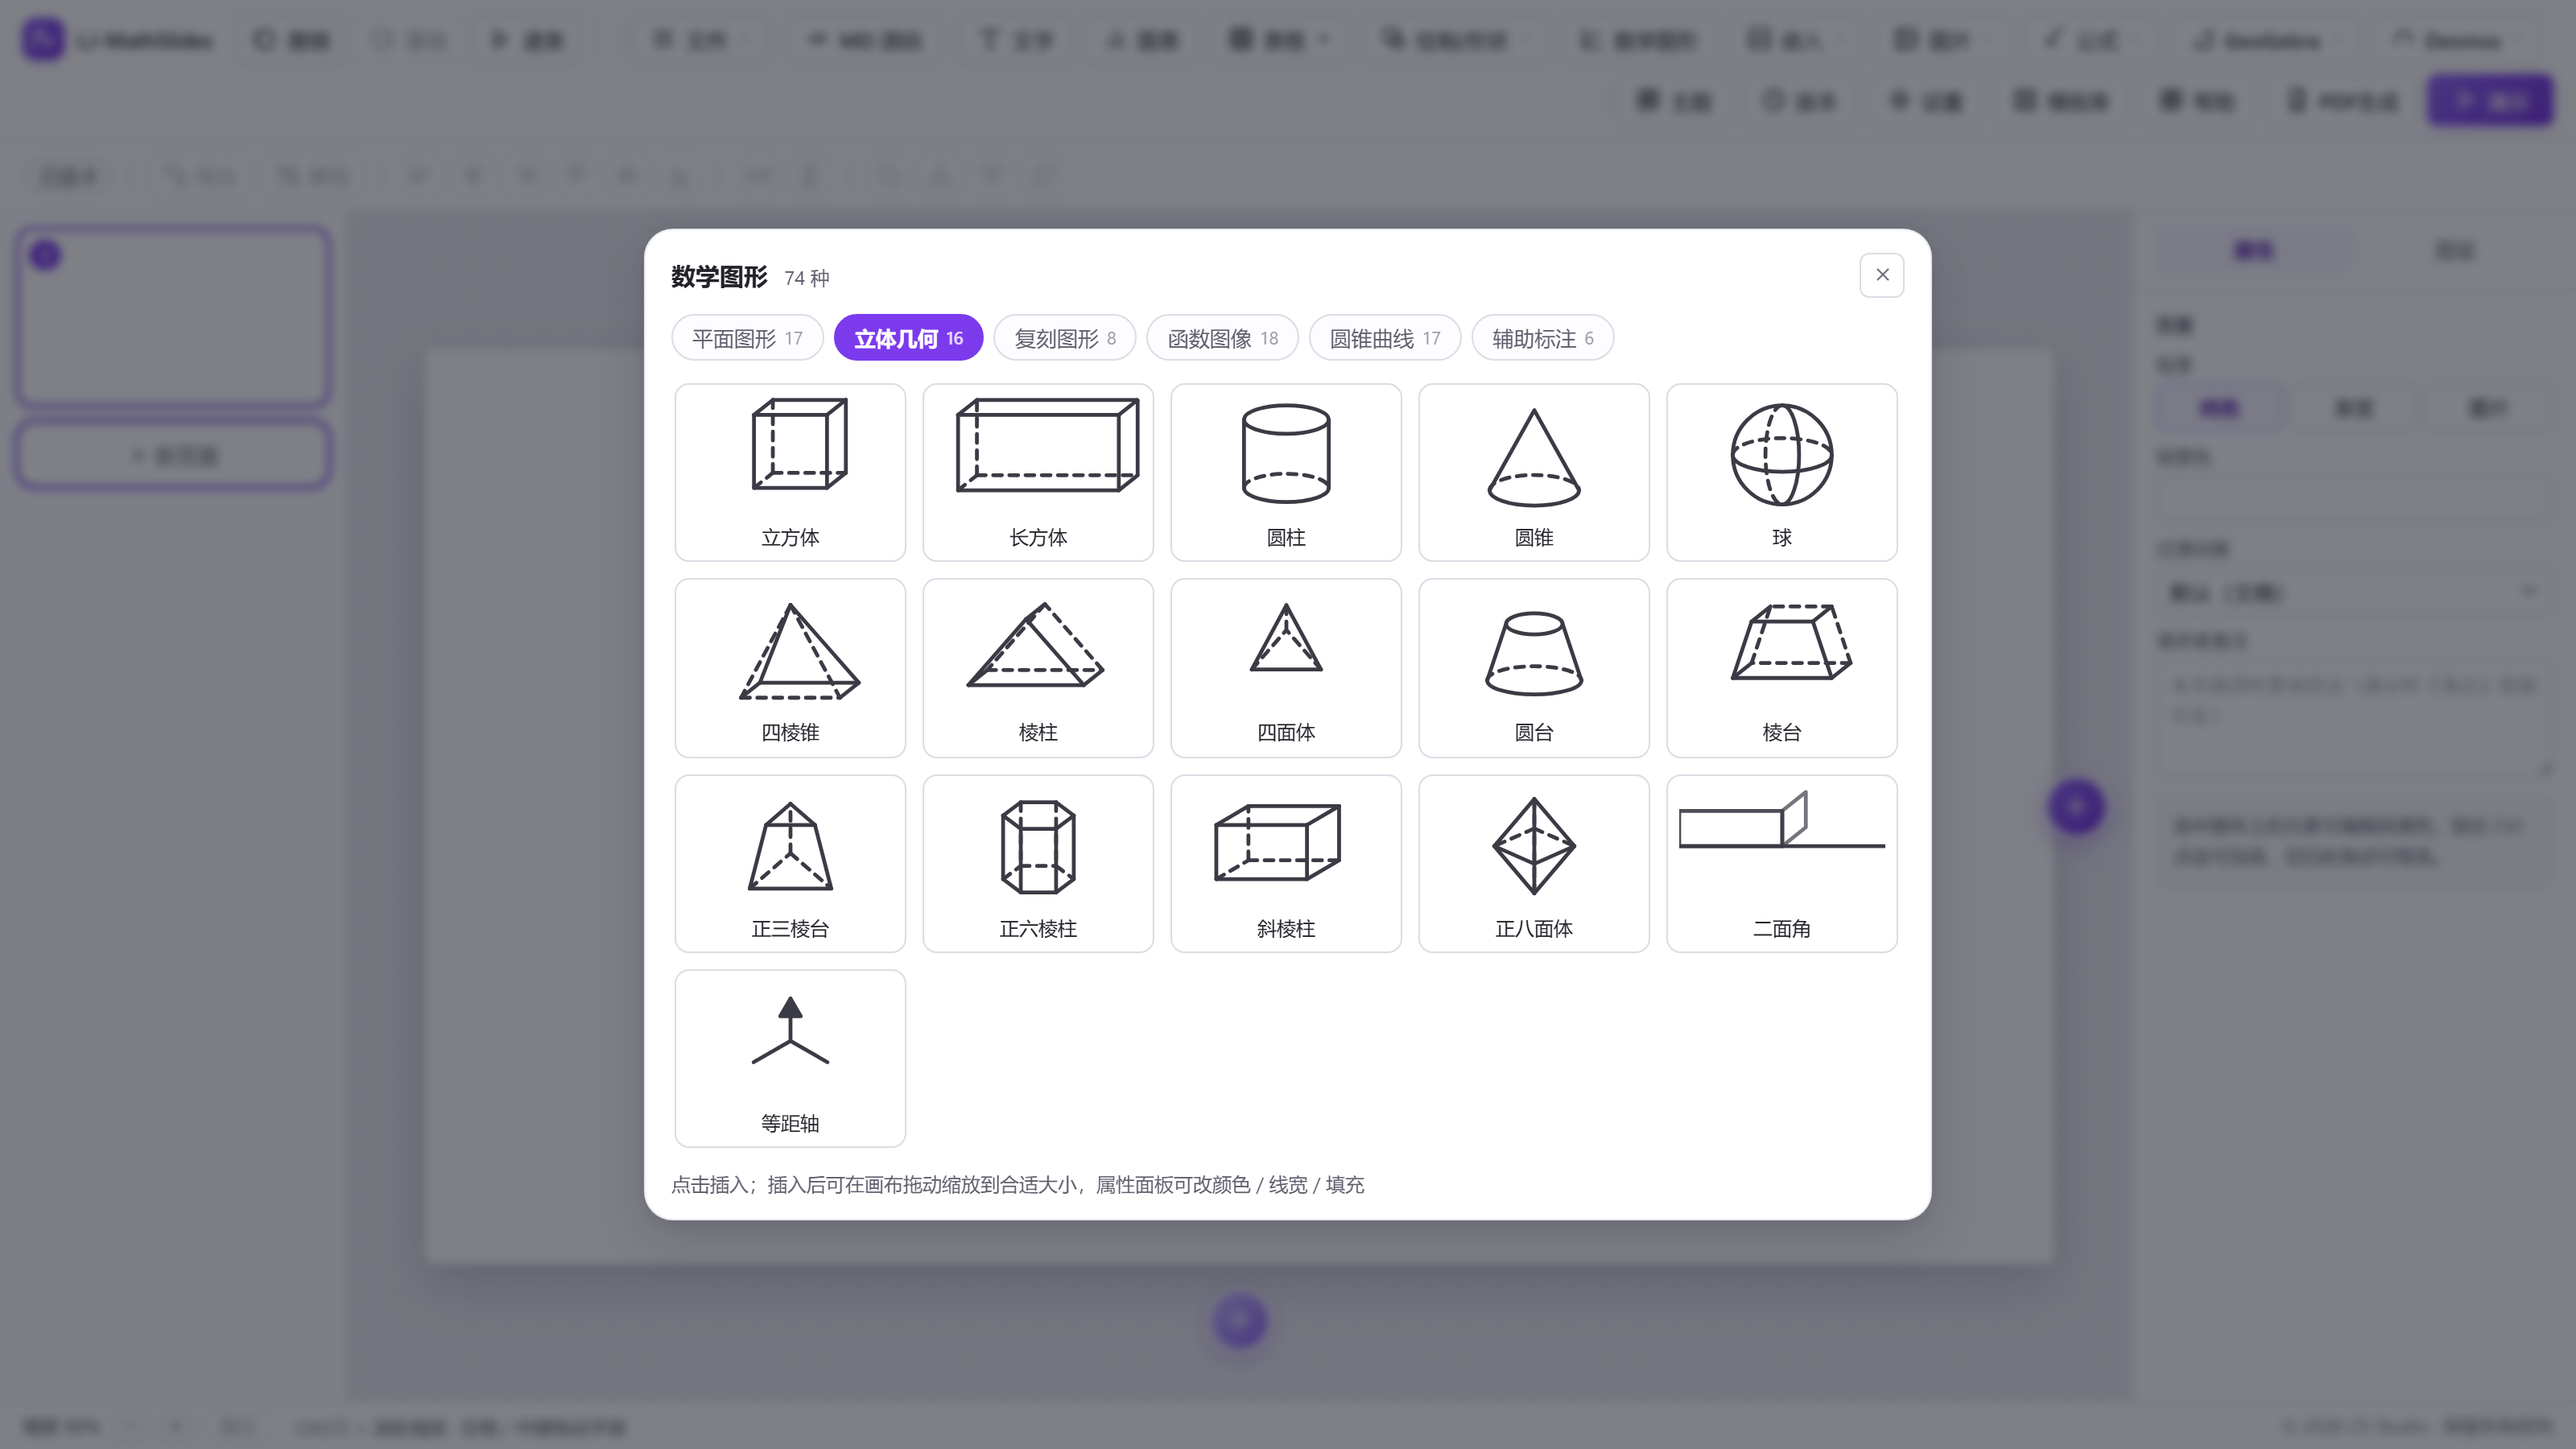
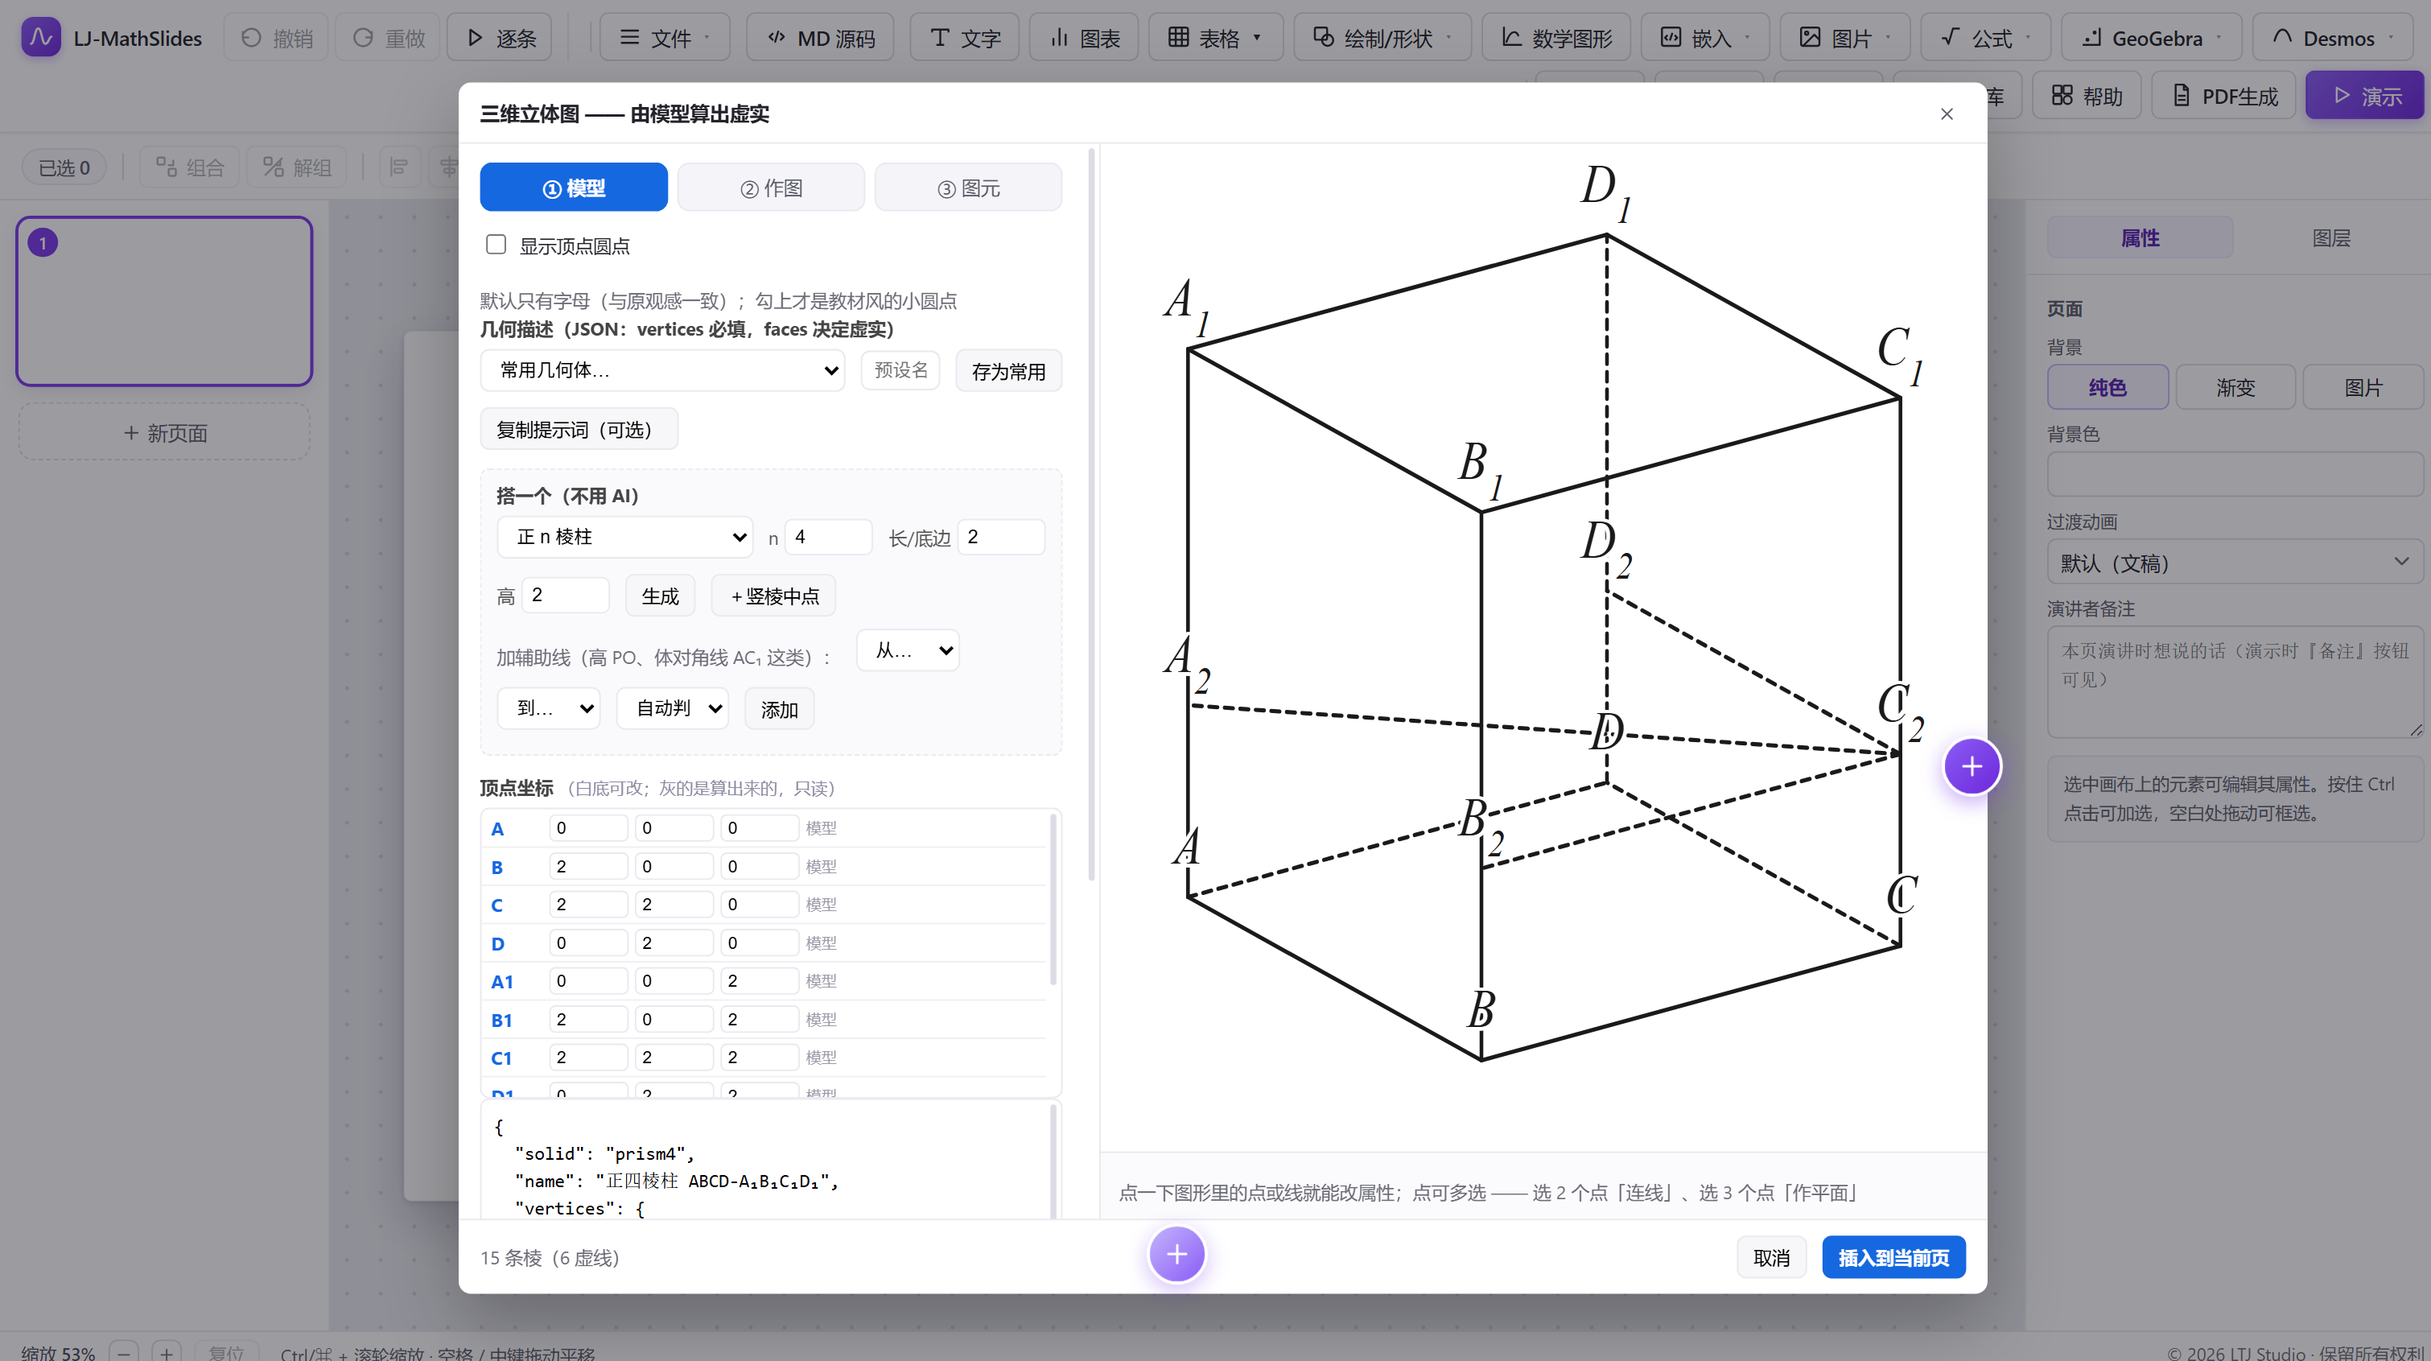
v2026.09.1293: ?shot=开发参数(不碰工具栏模板)+三维弹窗与模板库两张新配图(共18张)

diff --git a/src/App.vue b/src/App.vue
@@ -32,6 +32,9 @@ import MarkdownSourcePanel from '@/components/MarkdownSourcePanel.vue'
 import { viewMode } from '@/ui/view'
 import { tplOpen, tplMode, openTemplateLibrary, closeTemplateLibrary } from '@/ui/templateLibrary'
 import { helpOpen, closeHelp } from '@/ui/help'
+import { openHelp } from '@/ui/help'
+import { openGeom3D } from '@/ui/geom3d'
+import { initShotMode, shotRequest } from '@/ui/shot'
 import ContextMenu from '@/components/ContextMenu.vue'
 import StatusBar from '@/components/StatusBar.vue'
 
@@ -101,6 +104,15 @@ function onContextMenu(e: MouseEvent) {
 onMounted(() => {
   window.addEventListener('keydown', onKeydown)
   document.addEventListener('contextmenu', onContextMenu)
+})
+/* 开发用截图参数 ?shot=<面板>：启动即把对应面板打开（正常启动不带参 → 什么也不做 ✓） */
+onMounted(() => {
+  initShotMode()
+  const want = shotRequest.value
+  if (want === 'help') openHelp()
+  else if (want === 'geom3d') openGeom3D()
+  else if (want === 'ggb') openGgbSuite()
+  else if (want === 'template') openTemplateLibrary('replace')
 })
 onBeforeUnmount(() => {
   window.removeEventListener('keydown', onKeydown)

diff --git a/src/ui/shot.ts b/src/ui/shot.ts
@@ -1,0 +1,26 @@
+/**
+ * 开发用截图参数 `?shot=<面板>` —— 启动即把某个面板/弹窗打开 ✓。
+ *
+ * 为什么需要它 ✗：以前靠 CDP 脚本从外部「猜」DOM 来点开关 ✓，
+ * 一天之内在同一个病根上栽了五次（猜类名 / 限死叶子 / 合成点击 / 按文字定位 / 只取第一个匹配 ✓）。
+ * 有了这个参数 ✓，**每张截图就是一行命令** ✓，选择器一个都不用猜 ✓。
+ *
+ * 用法（只在 dev / 手动带参时生效 ✓，正常启动不带参即无影响 ✓）：
+ *   http://127.0.0.1:5173/?shot=help
+ *   http://127.0.0.1:5173/?shot=geom3d
+ *   http://127.0.0.1:5173/?shot=ggb
+ *   http://127.0.0.1:5173/?shot=template
+ *   http://127.0.0.1:5173/?shot=layout
+ *   http://127.0.0.1:5173/?shot=md
+ *   http://127.0.0.1:5173/?shot=formula
+ */
+import { ref } from 'vue'
+
+export const shotRequest = ref<string | null>(null)
+
+export function initShotMode() {
+  try {
+    const v = new URLSearchParams(location.search).get('shot')
+    if (v) shotRequest.value = v
+  } catch { /* 取不到就算了 ✓ */ }
+}

diff --git a/src/help/topics.ts b/src/help/topics.ts
@@ -62,6 +62,7 @@ export const HELP_TOPICS: HelpTopic[] = [
     title: '页面与幻灯片管理',
     tags: ['页面', '缩略图', '排序', '隐藏', '章节'],
     body: [
+      img('template-picker', '模板库：封面 / 目录 / 章节 / 定义 / 定理 / 例题 等成套版式'),
       img('page-context-menu', '缩略图右键菜单：复制 / 删除 / 隐藏本页'),
       p('左侧缩略图栏是页面总览：点击切换、拖动排序、右键出菜单。'),
       ul(
@@ -155,6 +156,7 @@ export const HELP_TOPICS: HelpTopic[] = [
     title: '三维立体图',
     tags: ['三维', '立体几何', '棱柱', '棱锥', '虚实线', '顶点'],
     body: [
+      img('geom3d-dialog', '三维立体图：左侧填顶点坐标与面表，右侧自动算出虚实线'),
       img('figure-solid-tab', '图形库的「立体几何」标签页'),
       p('用「顶点坐标 + 面表」描述一个立体，程序自动算出**虚实线**（被遮挡的棱画虚线）。'),
       ul(

diff --git a/README.md b/README.md
@@ -3,7 +3,7 @@
 与根目录的原版应用**并行开发**，互不干扰。这一步的目标是把架构从「DOM 即模型」
 换成「场景图驱动」，并验证它在 Vue 3 + TypeScript 下跑得通。
 
-> **当前版本：2026.09.1292**（源码快照 `_backup/rollback-*`；dev 端口 `http://127.0.0.1:5173`；演示 exe 在 `lj-mathslides-demo/lj-mathslides.exe`）
+> **当前版本：2026.09.1293**（源码快照 `_backup/rollback-*`；dev 端口 `http://127.0.0.1:5173`；演示 exe 在 `lj-mathslides-demo/lj-mathslides.exe`）
 >
 > 本版要点：公式与混排「只缩小不放大」（大小由字号决定）· 高中数学例题 8 套模板全部改用混排公式 · 「另存为…」可自选目录 · Markdown 的 `$$` 少一个 `$` 不再丢公式、不再跳页。
 >
@@ -431,6 +431,40 @@ label("$A$", (2.399, 2.306));
 
 > 版本号形如 `YYYY.MM.DDNN`（NN = 当天第几次存档）。每个版本在 git 里都有同名标签，
 > 回退用 `git checkout v2026.09.1103`；`_backup/rollback-*` 是目录级源码快照（含 zip）。
+
+### 2026-09-15（v2026.09.1293）
+
+**1293 · 开发参数 ?shot=<面板>（配图不再靠猜选择器）+ 两张新配图**
+
+**问题**：之前用 CDP 脚本从外部「猜」DOM 来开面板，一天之内在同一个病根上栽了五次
+（猜类名 / 限死叶子 / 合成点击 / 按文字定位 / 只取第一个匹配）。
+
+**解法**：新增 `src/ui/shot.ts` + App.vue 一个 onMounted 分支 ✓，
+启动时读 URL 参数即打开对应面板 ✓：
+
+    ?shot=help · geom3d · ggb · template
+
+**关键设计**：只调**已有共享 ref** 的面板 ✓，**完全没碰工具栏模板** ✗
+（项目里 20 个面板已有共享 ref，够用）。
+
+**效果**：每张截图从"写几十行 CDP 猜选择器"变成**一行 URL + 一个选择器** ✓：
+
+    chrome --headless http://127.0.0.1:5173/?shot=geom3d
+    node .probe/shot1.cjs <port> .g3 geom3d-dialog
+
+**新配图**（都是这样一次成功的 ✓）：
+
+    geom3d-dialog.png   三维立体图弹窗（顶点坐标表 + 自动虚实线的长方体）——
+                        **这正是之前失败三次的那张** ✓
+    template-picker.png 模板库（封面/目录/章节/定义/定理/例题 成套版式）
+
+合计 **18 张** ✓。
+
+**踩坑记录**：改 App.vue 时又犯了"按行号删/改"的老毛病 ✗ ——
+删掉第 22 行后行号偏移 ✓，接着按旧行号删了**原有的** import ✗，
+连带 `tplOpen`/`tplMode` 消失 ✓，越修越乱 ✓，最后**回退重做** ✓。
+**教训（再次）**：改完文件**一律按内容重新定位** ✓；
+而且**能用一句 `git checkout` 回退时，就别再补丁叠补丁** ✓。
 
 ### 2026-09-15（v2026.09.1292）
 
